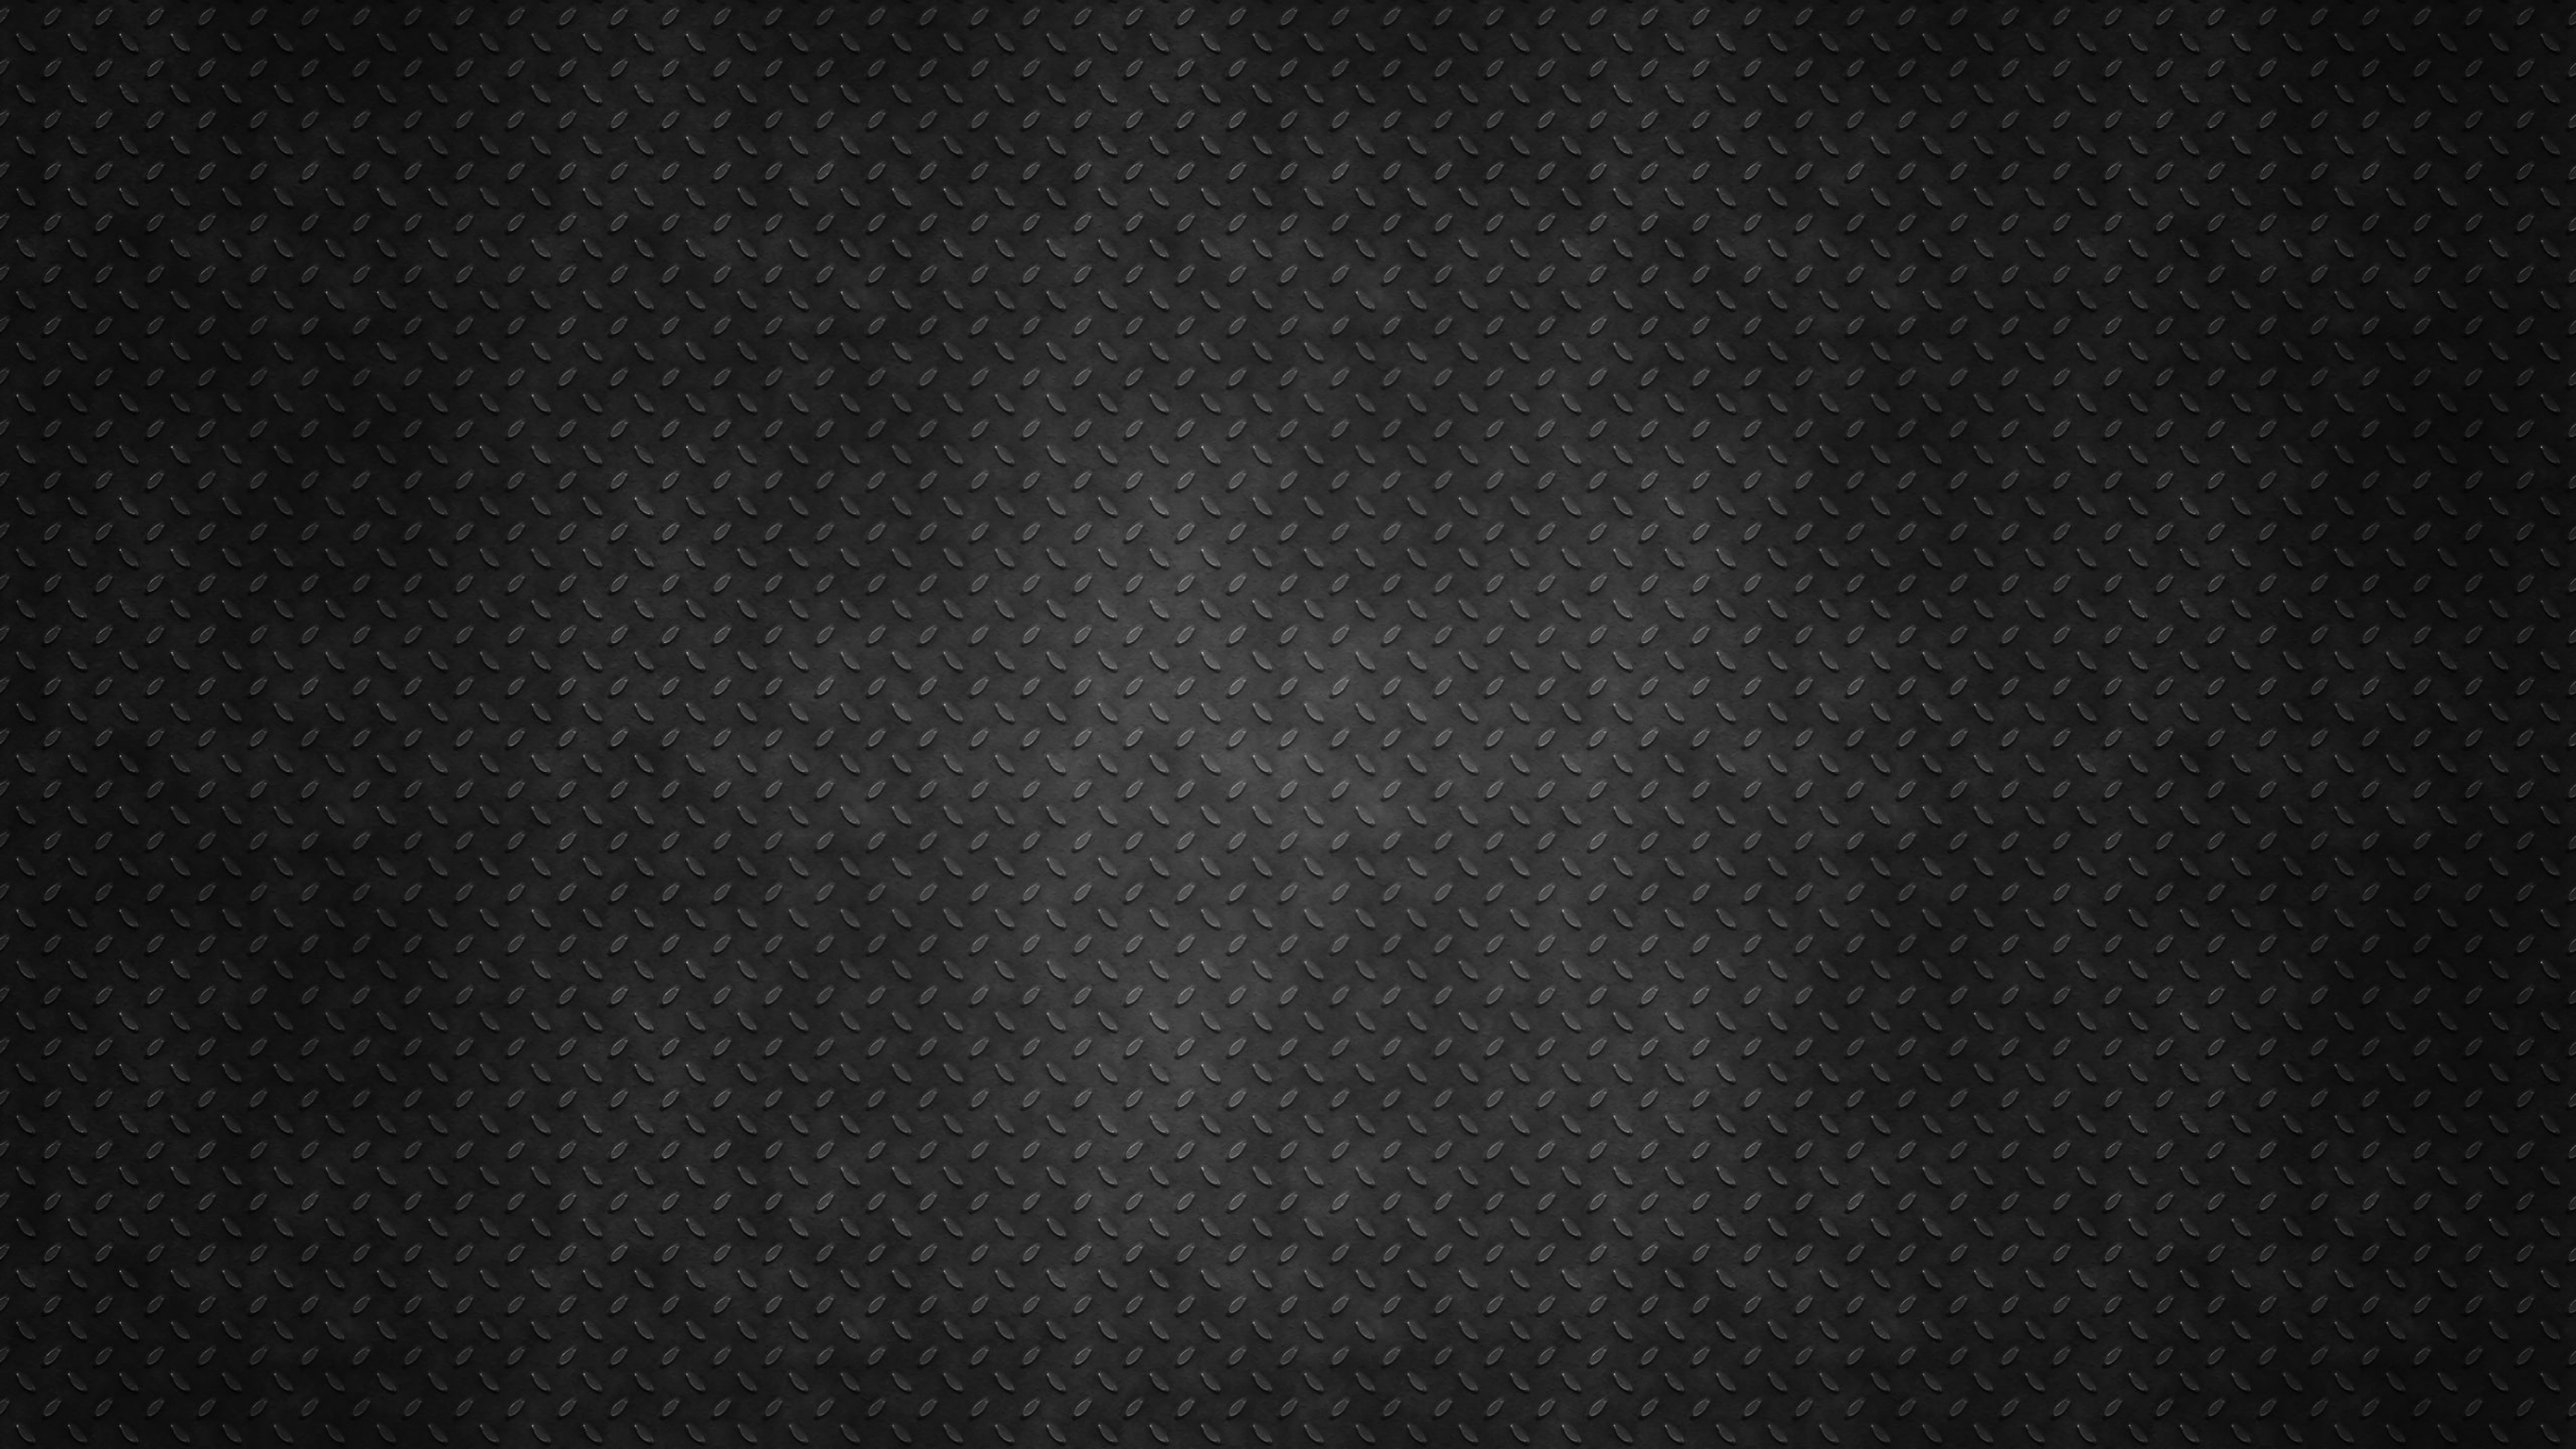
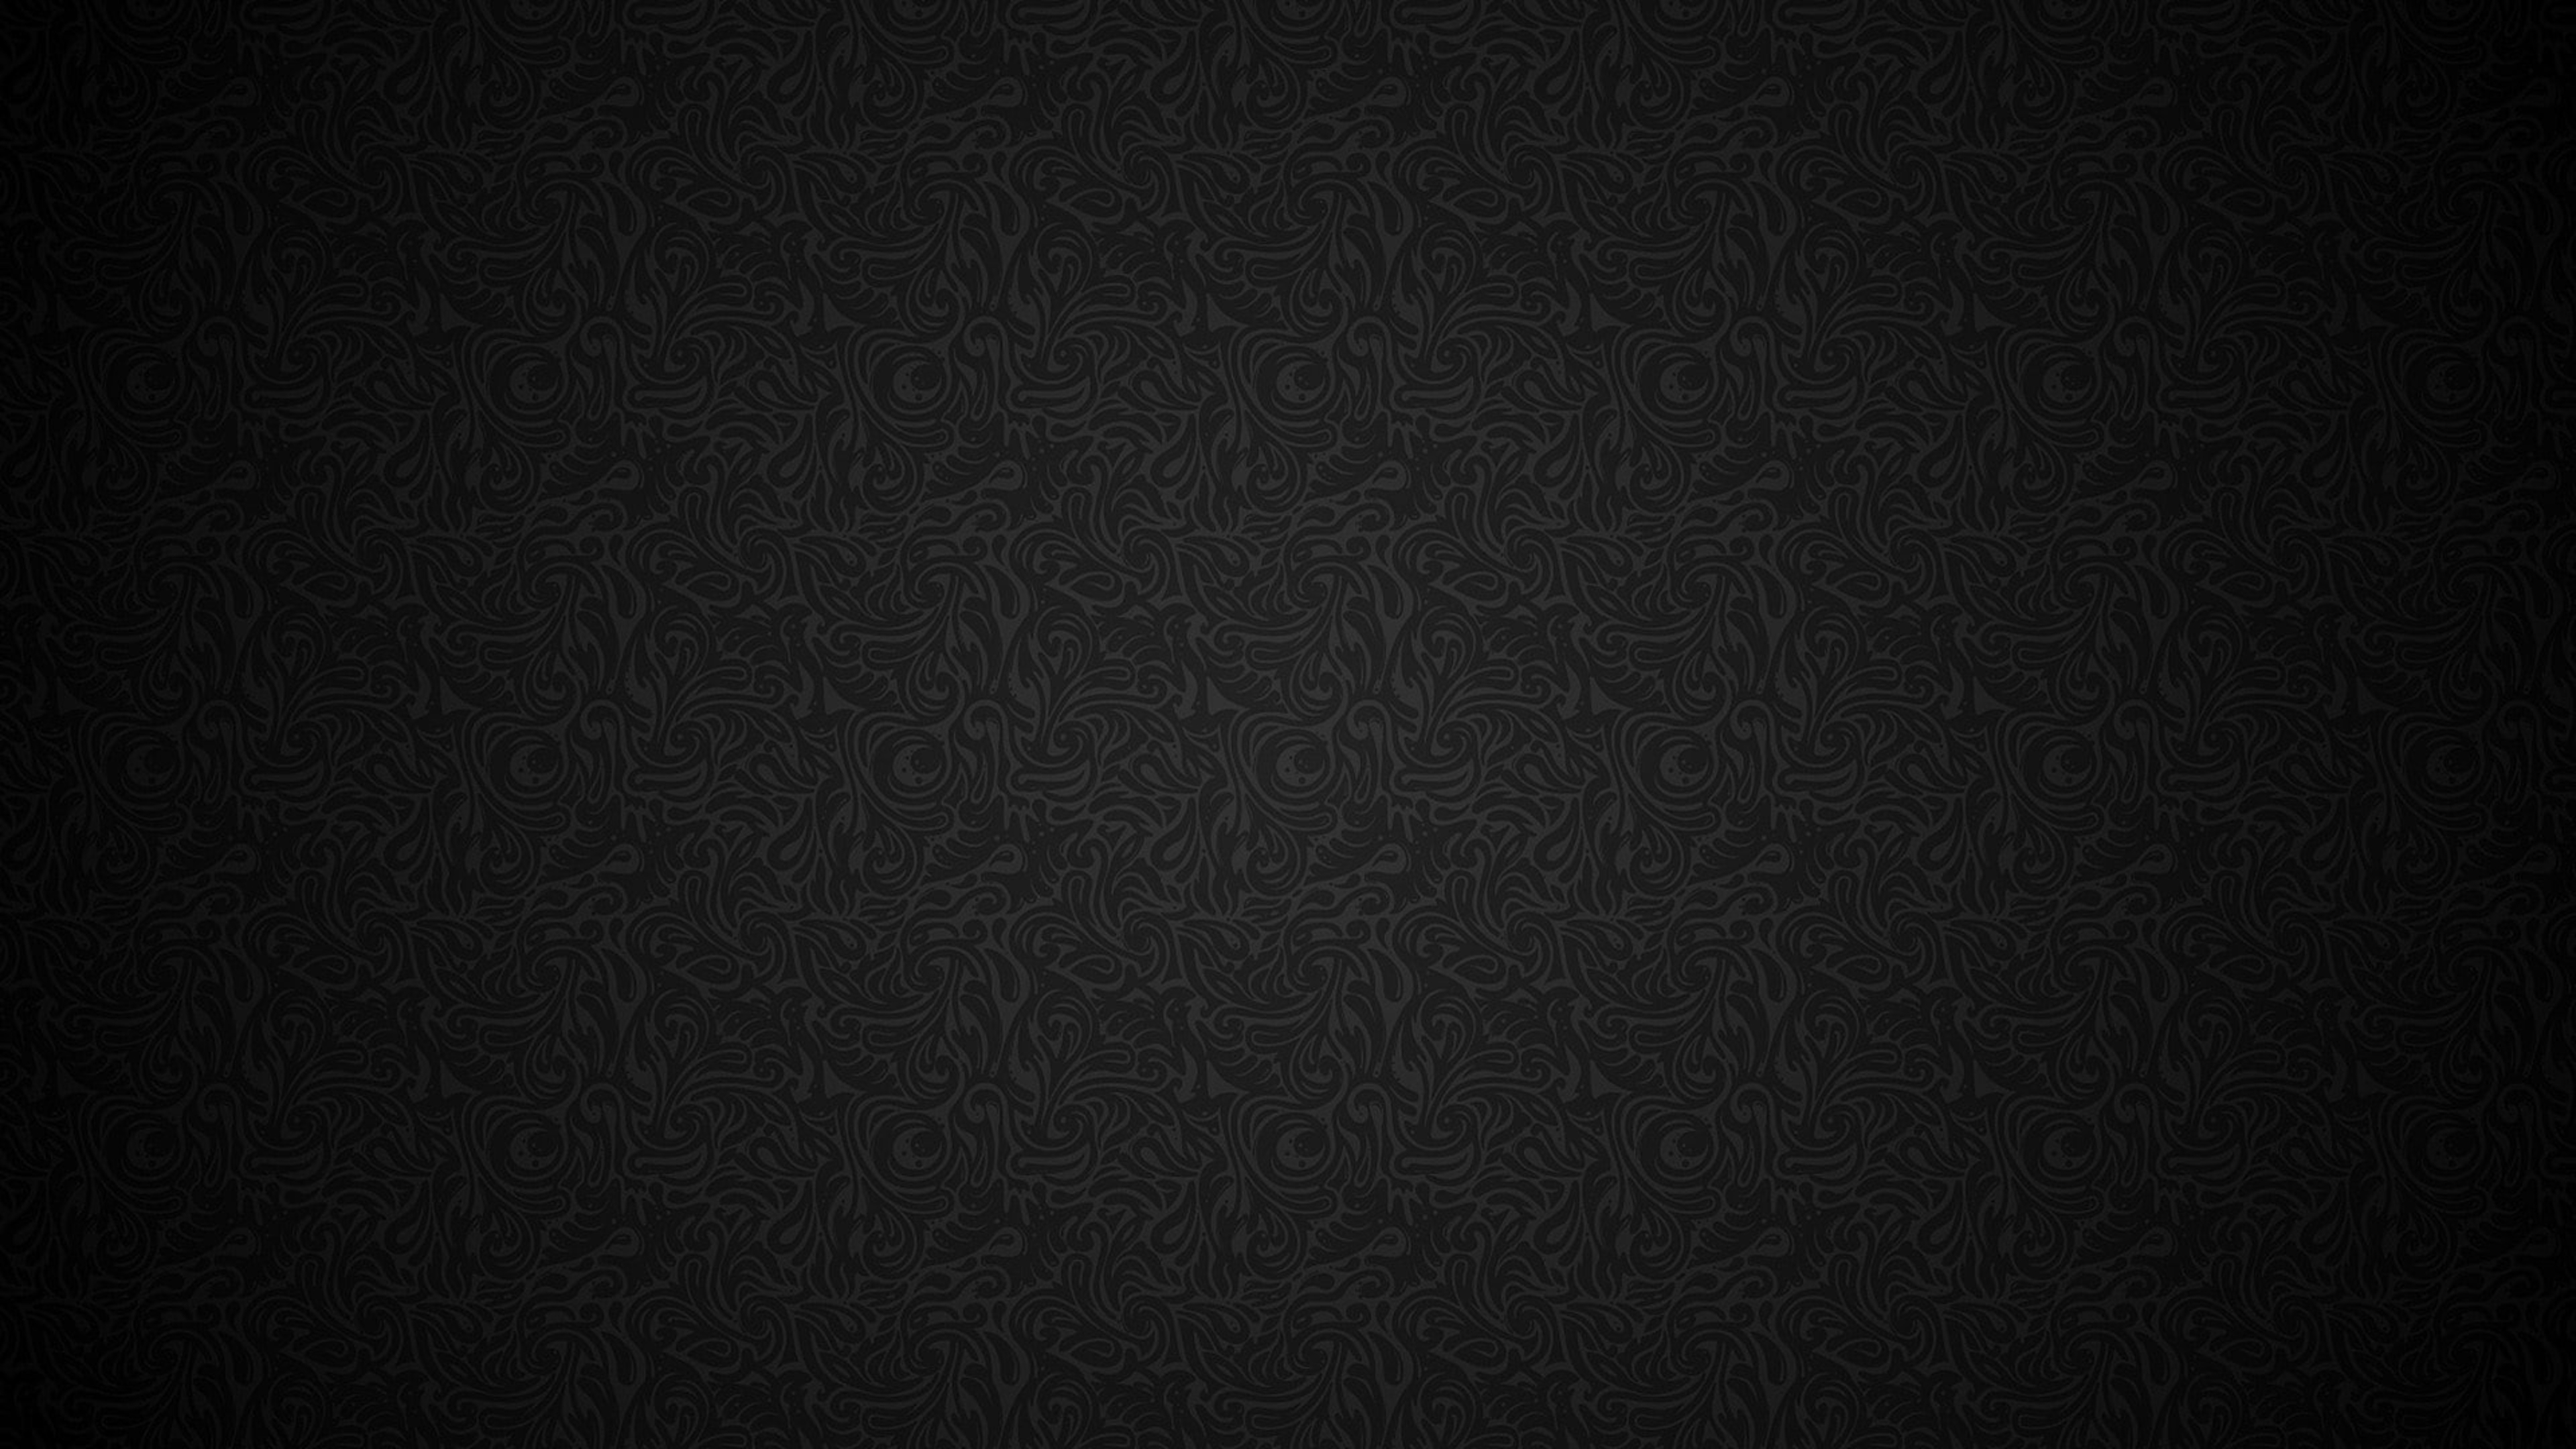
Added spartan theme

diff --git a/main.css b/main.css
@@ -211,6 +211,18 @@ td{
   text-align:center;
 }
 
+#spartan-mode{
+  /* background-color: var(--cyGirlColor); */
+  height: 2rem;
+	width: 2rem;
+  /* padding: .3rem; */
+  box-shadow: 0.625rem 0.625rem 0.5rem var(--shadowColor);
+  margin-left: 20%;
+  margin-right: 50%;
+  margin-bottom: 50%;
+  text-align:center;
+}
+
 #cyDemo{
   /* text-align:center; */
   /* margin-left: 60%;
@@ -238,6 +250,7 @@ form{
   /* display: inline; */
   /* float: center; */
   margin-left: 35%;
+  color: var(--fontColor);
   /* margin-right: 50%; */
 }
 
@@ -245,11 +258,13 @@ form{
   /* padding: 3px; */
   /* text-align: center; */
   /* box-shadow: 0.4rem 0.4rem 0.2rem var(--shadowColor); */
+  color: var(--fontColor);
 }
 
 form select{
   width: 18%;
   padding: 3px;
+  color: var(--fontColor);
   /* text-align: center; */
   /* box-shadow: 0.4rem 0.4rem 0.2rem var(--shadowColor); */
 }
@@ -261,6 +276,7 @@ form select{
   /* overflow: hidden; */
   /* padding: 2px; */
   /* float: left; */
+  color: var(--fontColor);
 }
 
 #gender{
@@ -272,6 +288,7 @@ textarea{
   margin-left: auto;
   margin-right: auto;
   /* float: center; */
+  color: var(--fontColor);
 }
 
 .surveySubmit{

diff --git a/spartan.css b/spartan.css
@@ -1,0 +1,23 @@
+
+
+:root{
+  --mainFont: 'Inconsolata', monospace;
+  --mainColor: #62D905;
+  --blockColor: #01C48C;
+  --hoverColor: #892315;
+  --fontColor: #B1120E;
+  --shadowColor: #154F39;
+  --textShadow: black;
+  --scHeader: url('./images/spartanHeader.png');
+  --btn1: url('./images/spartanMenuBtn.png');
+  --btn2: url('./images/spartanEnterBtn.png');
+  --btn3: url('./images/spartanSubmitBtn.png');
+  --scFooter: url('./images/spartanFooter.png');
+  --customCursor: url('./images/spartanCursor.png');
+  --backgroundImage: url('./images/blackBg.jpg');
+}
+
+body{
+  background-repeat: no-repeat;
+  background-size: cover;
+}

diff --git a/themes.html b/themes.html
@@ -84,7 +84,11 @@
                 </div>
               </td>
               <td>
-                
+                <div data-mode="spartan" id="spartan-mode" class="theme-dot">
+                  <span title="Spartan"><img class='spartan' src='./images/spartanAv.jpg'/>
+                    <h6 id='rainbowDemo'>Spartan</h6>
+                  </span>
+                </div>
               </td>
               <td></td>
               <td></td>

diff --git a/sunset.css b/sunset.css
@@ -13,6 +13,11 @@
   --btn2: url('./images/sunsetEnterBtn.png');
   --btn3: url('./images/sunsetSubmitBtn.png');
   --scFooter: url('./images/sunsetFooter.png');
-  --customCursor: url('./images/steamPunkCursor.png');
+  --customCursor: url('./images/sunsetCursor.png');
   --backgroundImage: url('./images/sunsetGradient.jpg');
+}
+
+body{
+  background-repeat: no-repeat;
+  background-size: cover;
 }

diff --git a/js/themes.js b/js/themes.js
@@ -40,8 +40,8 @@ function setTheme(mode){
 		document.getElementById('theme-style').href = 'sunset.css'
 	}
 
-  if(mode == 'mrAnderson'){
-		document.getElementById('theme-style').href = 'mrAnderson.css'
+  if(mode == 'spartan'){
+		document.getElementById('theme-style').href = 'spartan.css'
 	}
 
   if(mode == 'whimsyShire'){
